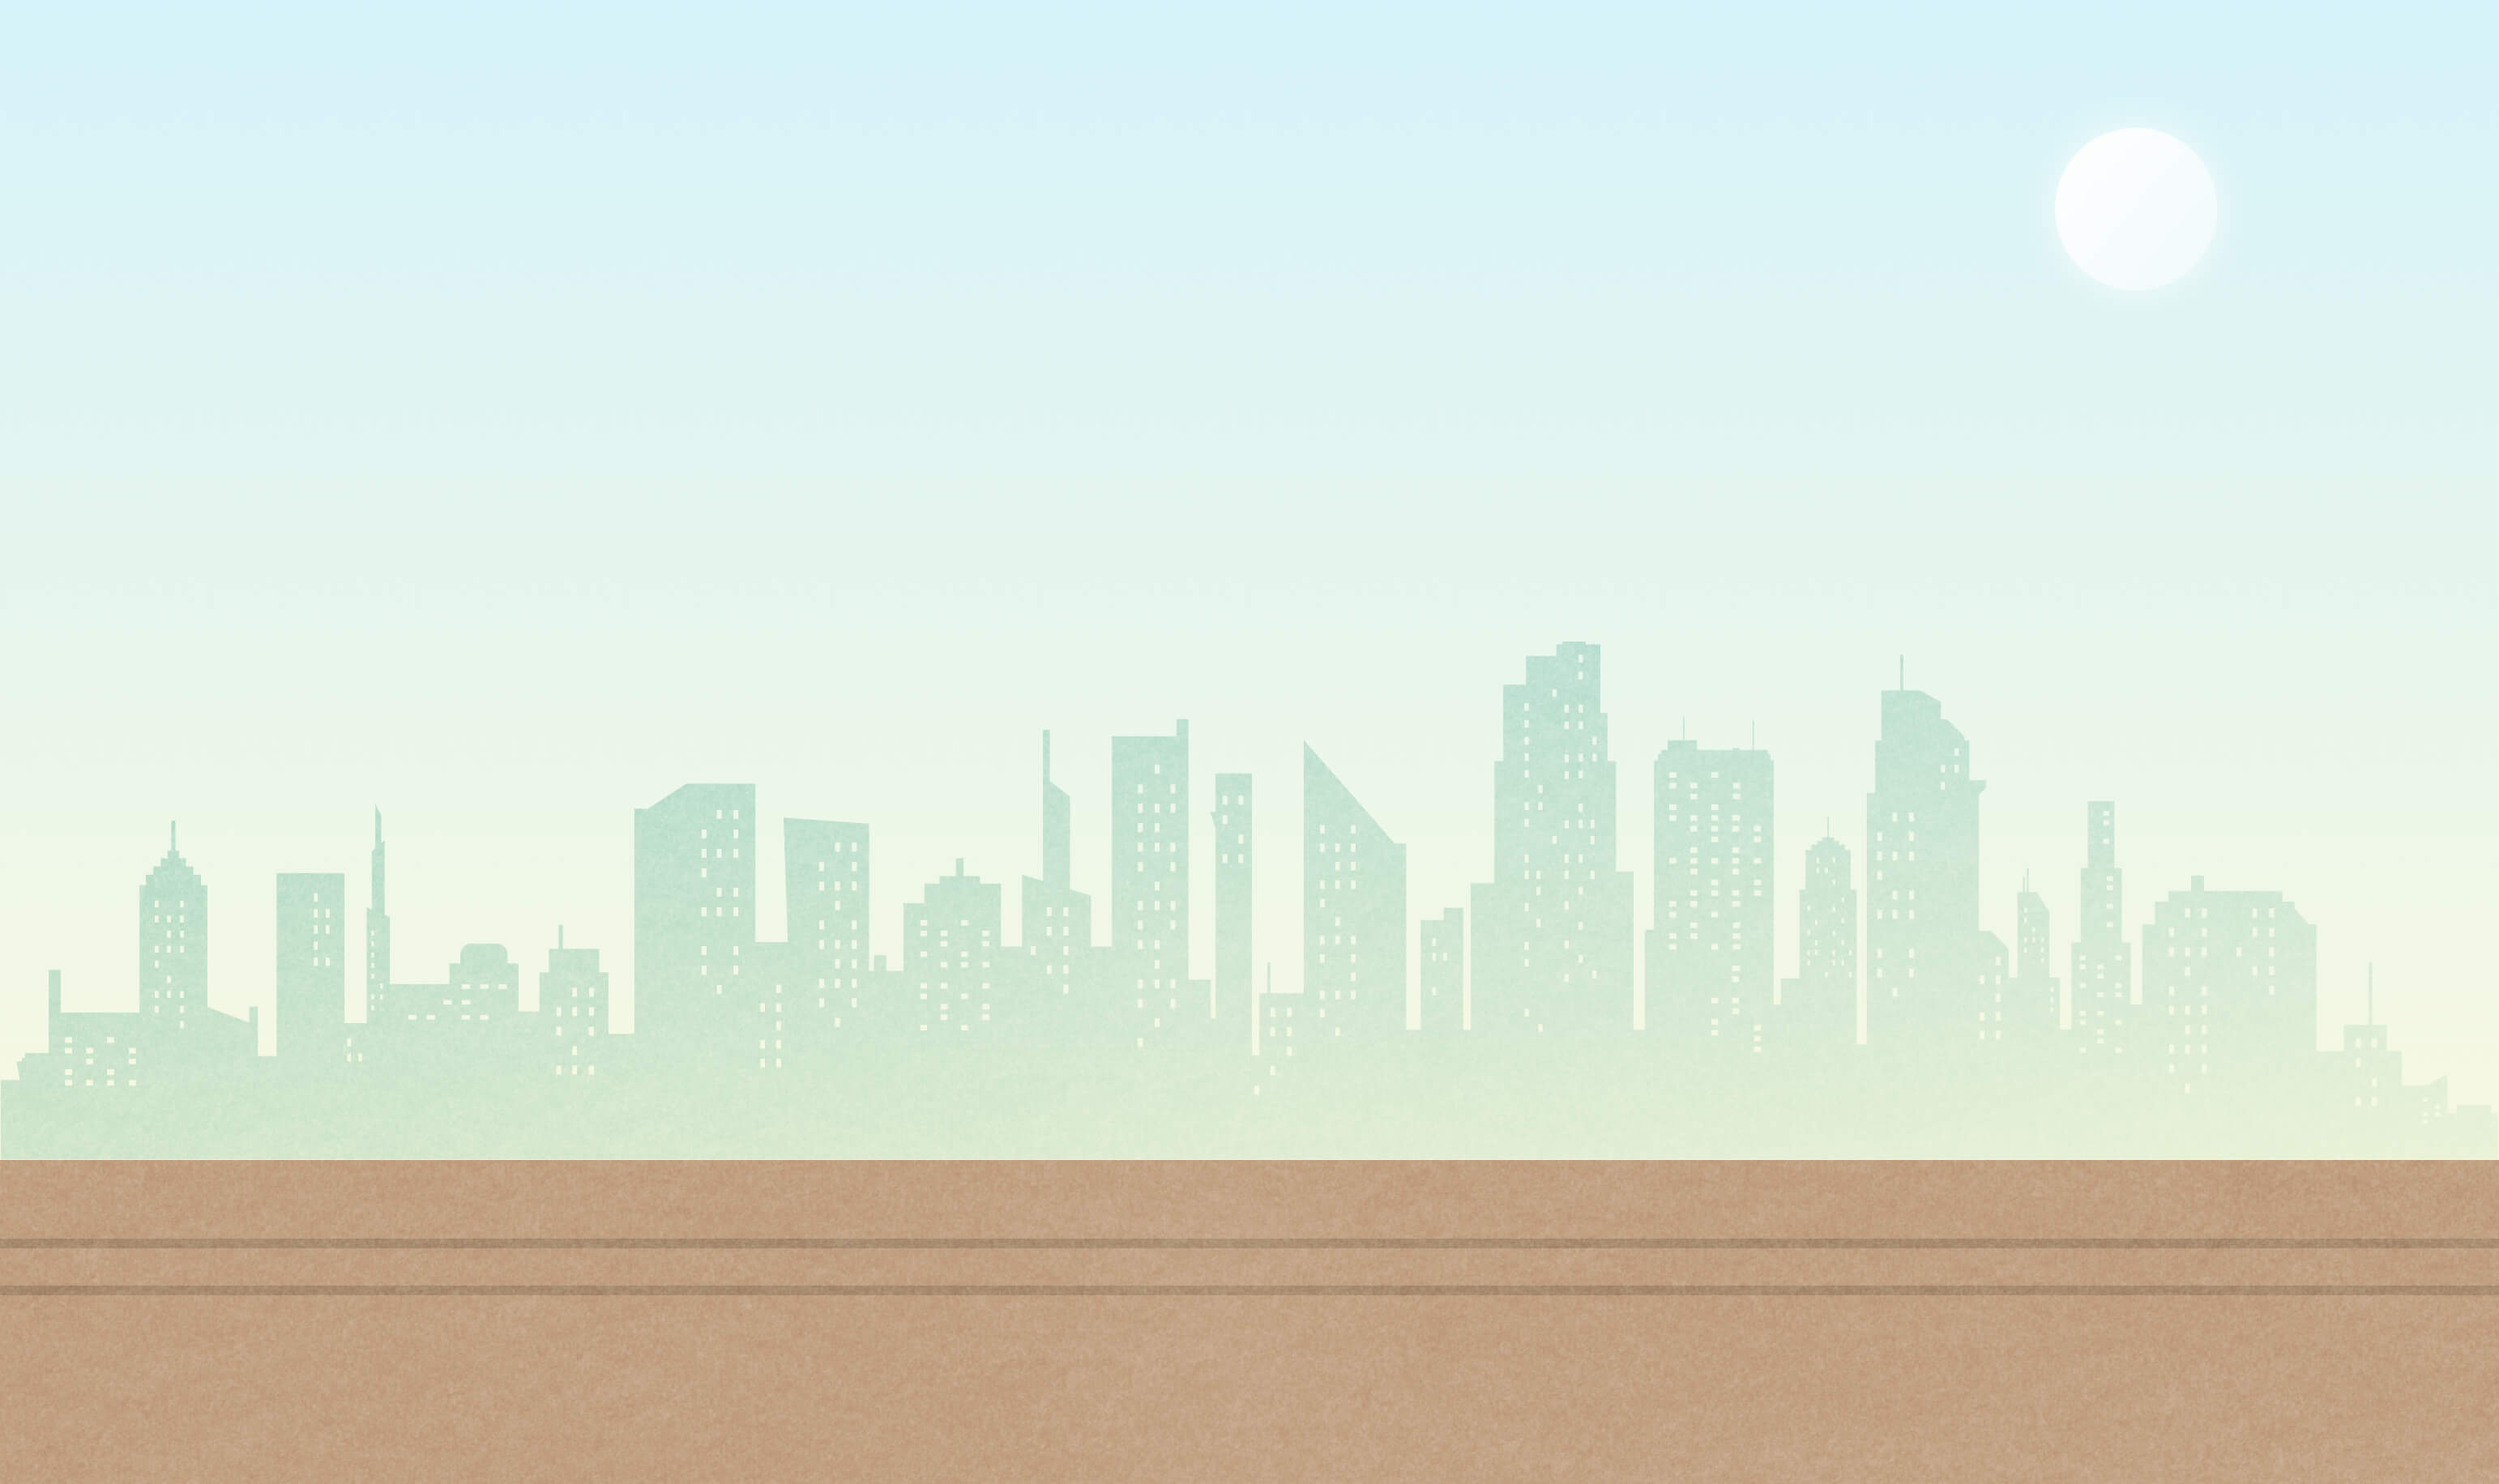
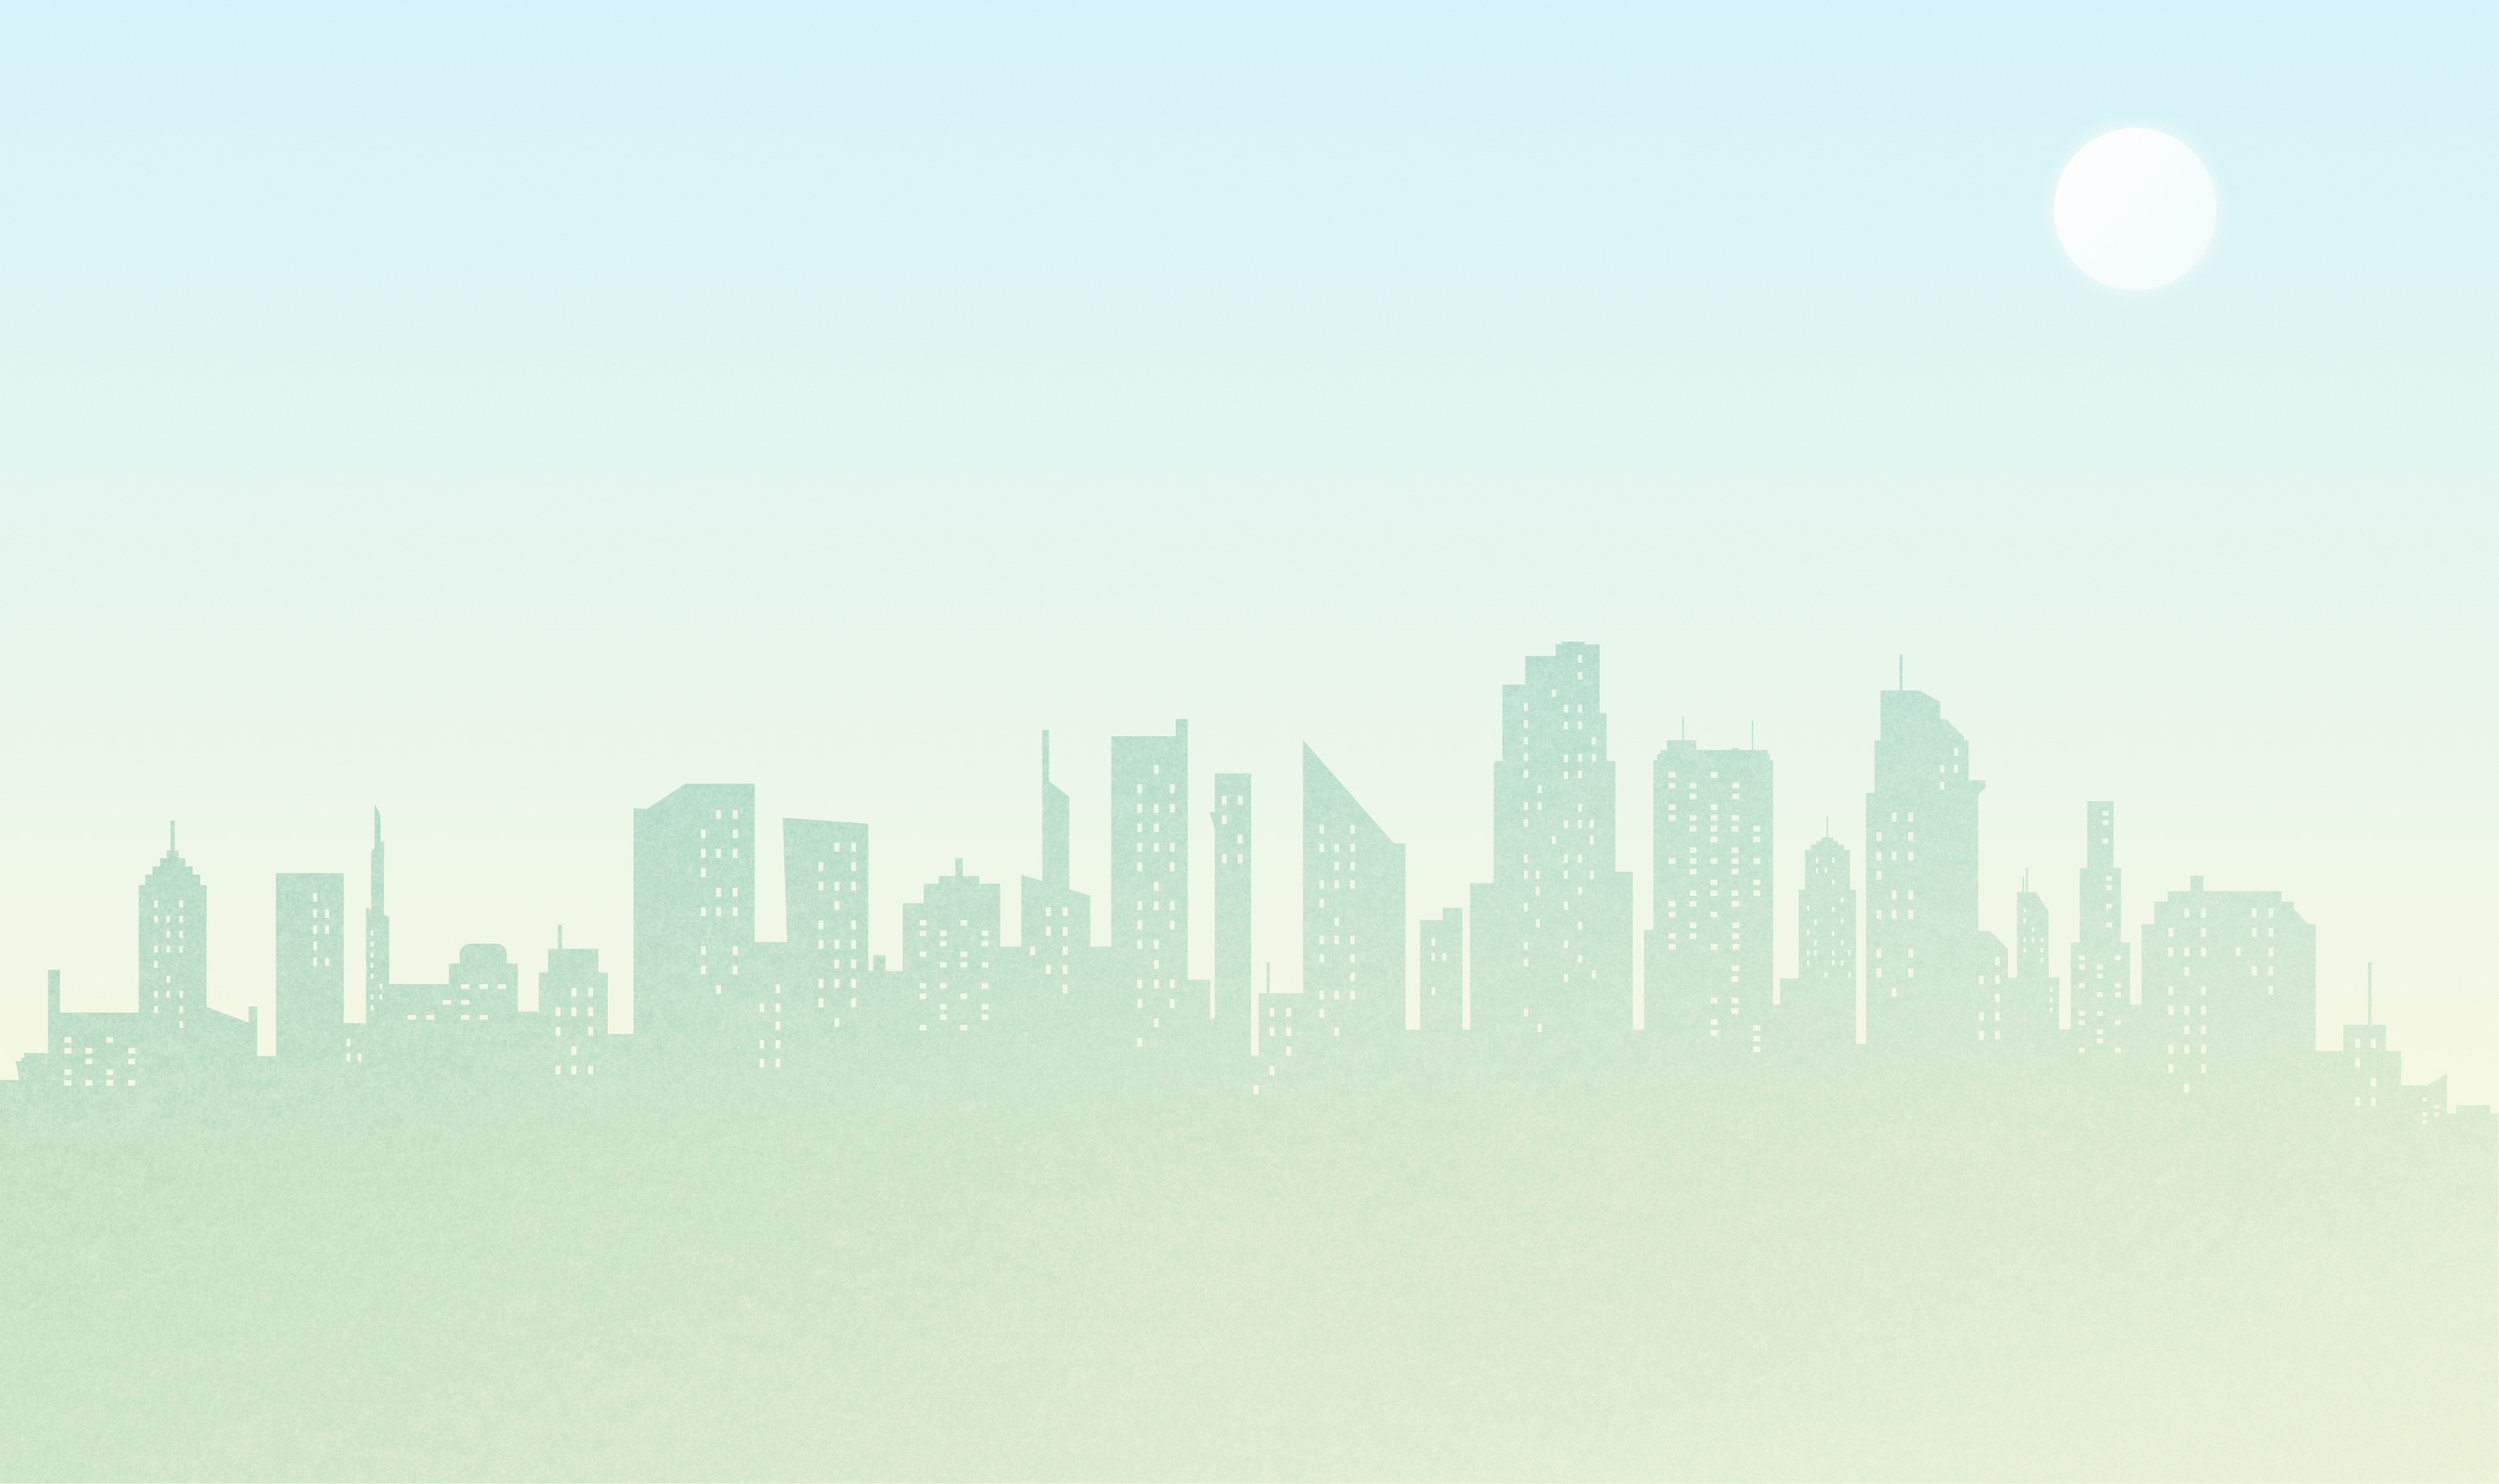
layout amendment

Changed region(s): [[0.0, 0.7778, 1.0, 1.0]]

diff --git a/frontend/components/PartyTram/PartyTramCarousel.tsx b/frontend/components/PartyTram/PartyTramCarousel.tsx
@@ -125,7 +125,7 @@ export default function PartyTramCarousel({ data }: PartyTramCarouselProps) {
   const CARD_GAP_VW = isLg ? LG_CARD_GAP_VW : MOBILE_CARD_GAP_VW;
 
   return (
-    <div className="relative z-10 flex h-full flex-col items-center pt-[calc(76px+8dvh)] lg:items-start lg:pt-[calc(76px+8dvh)]">
+    <div className="relative z-10 flex h-full flex-col items-center pt-[13dvh] lg:items-start">
       <div className="max-screen-lg mx-auto flex w-full items-center justify-center gap-6 lg:gap-16 lg:px-16">
         <IconButton
           ariaLabel="Previous tram"
@@ -136,7 +136,9 @@ export default function PartyTramCarousel({ data }: PartyTramCarouselProps) {
           className="border-green! hover:bg-green! z-10 hidden shrink-0 bg-transparent! hover:border-transparent! lg:grid"
         />
 
-        <h2 className="title-text text-green text-center">{data.title}</h2>
+        <h2 className="title-text text-green px-5 text-center lg:px-0">
+          {data.title}
+        </h2>
 
         <IconButton
           ariaLabel="Next tram"
@@ -147,7 +149,7 @@ export default function PartyTramCarousel({ data }: PartyTramCarouselProps) {
         />
       </div>
 
-      <p className="mx-auto mt-4 block w-full max-w-[710px] text-center text-[15px] leading-[163%] font-normal tracking-[0.02em] text-black lg:px-16 lg:text-[16px]">
+      <p className="mx-auto mt-4 block w-full max-w-[600px] px-5 text-center text-[15px] leading-[163%] font-normal tracking-[0.02em] text-black lg:max-w-[710px] lg:px-0 lg:px-16 lg:text-[16px]">
         {carouselItem?.desc}
       </p>
 
@@ -275,18 +277,18 @@ export default function PartyTramCarousel({ data }: PartyTramCarouselProps) {
         />
       </div>
 
-      {callAction && (
-        <div className="mt-6 mb-8 lg:hidden">
+      <div className="relative h-[10.55dvh] lg:hidden">
+        {callAction && (
           <Button
             href={carouselItem?.hyperlink?.url ?? undefined}
-            color="green"
             variant="solid"
             useArrow
+            className="translate-y-[-6dvh] border-[var(--color-accent-brown)]! bg-[var(--color-accent-brown)]! hover:bg-white! hover:text-[var(--color-accent-brown)]!"
           >
             {callAction}
           </Button>
-        </div>
-      )}
+        )}
+      </div>
     </div>
   );
 }

diff --git a/frontend/app/[locale]/components/TramoramicTour/TramoramicTour.tsx b/frontend/app/[locale]/components/TramoramicTour/TramoramicTour.tsx
@@ -88,7 +88,7 @@ export default function TramoramicTour({
             animate={activeSlide === 2 && nextSlide === 0}
             image={image3}
             hashTag={data?.tramoramicTourItem3?.hashTag}
-            cardClassName="translate-x-[0] -translate-y-[59%] lg:translate-x-[2.77vw] lg:-translate-y-[60%]"
+            cardClassName="translate-x-[-1.7vw] -translate-y-[59%] lg:translate-x-[2.77vw] lg:-translate-y-[60%]"
           />
           <CardContainer
             rootClass={` ${activeSlide === 0 ? "z-10" : activeSlide === 1 ? "z-20" : "z-0"}`}
@@ -104,7 +104,7 @@ export default function TramoramicTour({
             animate={activeSlide === 0 && nextSlide === 1}
             image={image1}
             hashTag={data?.tramoramicTourItem1?.hashTag}
-            cardClassName="translate-x-[6vw] -translate-y-1/2 lg:translate-x-[6.38vw]"
+            cardClassName="translate-x-[6vw] -translate-y-1/2 lg:translate-x-[6.55vw]"
           />
         </div>
 

diff --git a/frontend/app/[locale]/components/TramoramicTour/CardContainer.tsx b/frontend/app/[locale]/components/TramoramicTour/CardContainer.tsx
@@ -19,7 +19,7 @@ export default function CardContainer({
 }: CardContainerProps) {
   return (
     <div
-      className={`gpu-transform absolute top-0 left-0 h-full w-[min(76vw,520px)] translate-x-[-50%] transition-transform ease-in-out lg:w-[min(42vw,520px)] lg:translate-x-0 ${rootClass} ${animate ? "translate-x-[calc(-50%+10vw)] translate-y-[-79dvh] rotate-20 lg:translate-x-[10vw]" : ""}`}
+      className={`gpu-transform absolute top-0 left-0 h-full w-[min(74.12vw,520px)] translate-x-[-50%] transition-transform ease-in-out lg:w-[min(42vw,520px)] lg:translate-x-0 ${rootClass} ${animate ? "translate-x-[calc(-50%+10vw)] translate-y-[-79dvh] rotate-20 lg:translate-x-[10vw]" : ""}`}
       style={{ transitionDuration: `${SLIDE_DURATION_MS}ms` }}
     >
       <PolaroidCard image={image} hashTag={hashTag} className={cardClassName} />

diff --git a/frontend/components/PartyTram/PartyTram.tsx b/frontend/components/PartyTram/PartyTram.tsx
@@ -6,6 +6,7 @@ import { fetchPartyTram } from "@/hooks/useApiEndpoint/api";
 import type { PartyTramData, PartyTramResponse } from "@/types/api";
 import CloudLayer from "./CloudLayer";
 import PartyTramCarousel from "./PartyTramCarousel";
+import GroundLayer from "./GroundLayer";
 
 export interface PartyTramProps {
   locale: string;
@@ -44,6 +45,7 @@ export default function PartyTram({ locale }: PartyTramProps) {
 
   return (
     <section className="borderless relative h-[100dvh] overflow-hidden bg-[url('/partyTram/partytram-bg_m.jpg')] bg-cover bg-bottom lg:aspect-auto lg:bg-[url('/partyTram/partytram-bg.jpg')]">
+      <GroundLayer />
       <CloudLayer />
       <PartyTramCarousel data={data} />
     </section>

diff --git a/frontend/app/[locale]/components/TramoramicTour/PolaroidCard.tsx b/frontend/app/[locale]/components/TramoramicTour/PolaroidCard.tsx
@@ -27,7 +27,7 @@ export default function PolaroidCard({
         className="!aspect-square"
       />
       {hashTag && (
-        <p className="text-gold absolute right-0 bottom-[5vmin] left-0 truncate px-[40px] text-center font-sans [font-size:clamp(18px,7.5cqw,32px)] leading-[1.25em] font-semibold tracking-[0.02em] md:bottom-[2.9vmin] lg:bottom-[40px]">
+        <p className="text-gold absolute right-0 bottom-[5vmin] left-0 truncate px-[40px] text-center font-sans [font-size:clamp(18px,7.3cqw,32px)] leading-[1.25em] font-semibold tracking-[0.02em] md:bottom-[2.9vmin] lg:bottom-[40px]">
           {hashTag}
         </p>
       )}

diff --git a/frontend/components/PartyTram/CloudLayer.tsx b/frontend/components/PartyTram/CloudLayer.tsx
@@ -9,7 +9,7 @@ const Cloud = () => (
 export default function CloudLayer() {
   return (
     <div
-      className="absolute inset-x-0 top-0 bottom-0 flex aspect-[2892/436] h-[66.5dvh] w-auto [animation:cloud-drift_linear_infinite] lg:aspect-[6168/1156] lg:h-[78.5dvh]"
+      className="absolute inset-x-0 top-0 flex aspect-[2892/436] h-[36dvh] w-auto [animation:cloud-drift_linear_infinite] lg:aspect-[6168/1156] lg:h-[52dvh]"
       style={{ animationDuration: `${CLOUD_DRIFT_DURATION_S}s` }}
       aria-hidden="true"
     >

diff --git a/frontend/components/PartyTram/GroundLayer.tsx b/frontend/components/PartyTram/GroundLayer.tsx
@@ -1,0 +1,10 @@
+import "./PartyTram.scss";
+
+export default function GroundLayer() {
+  return (
+    <div
+      className="absolute inset-x-0 bottom-0 h-[26.2dvh] w-full bg-[url('/partyTram/partytram-bg-floor_m.jpg')] bg-[length:auto_100%] bg-repeat-x lg:h-[21.75dvh] lg:bg-[url('/partyTram/partytram-bg-floor.jpg')]"
+      aria-hidden="true"
+    />
+  );
+}

diff --git a/frontend/components/TramRoute/RouteMobilePicker.tsx b/frontend/components/TramRoute/RouteMobilePicker.tsx
@@ -42,7 +42,7 @@ export default function RouteMobilePicker({
             <ExchangeArrow className="text-green mx-auto h-5 w-5" />
             <span className={txtClass}>{t(activeRoute.to)}</span>
           </span>
-          <ChevronIcon className="h-4 w-4 shrink-0" />
+          <ChevronIcon className="h-5 w-5 shrink-0" />
         </button>
       </div>
 
